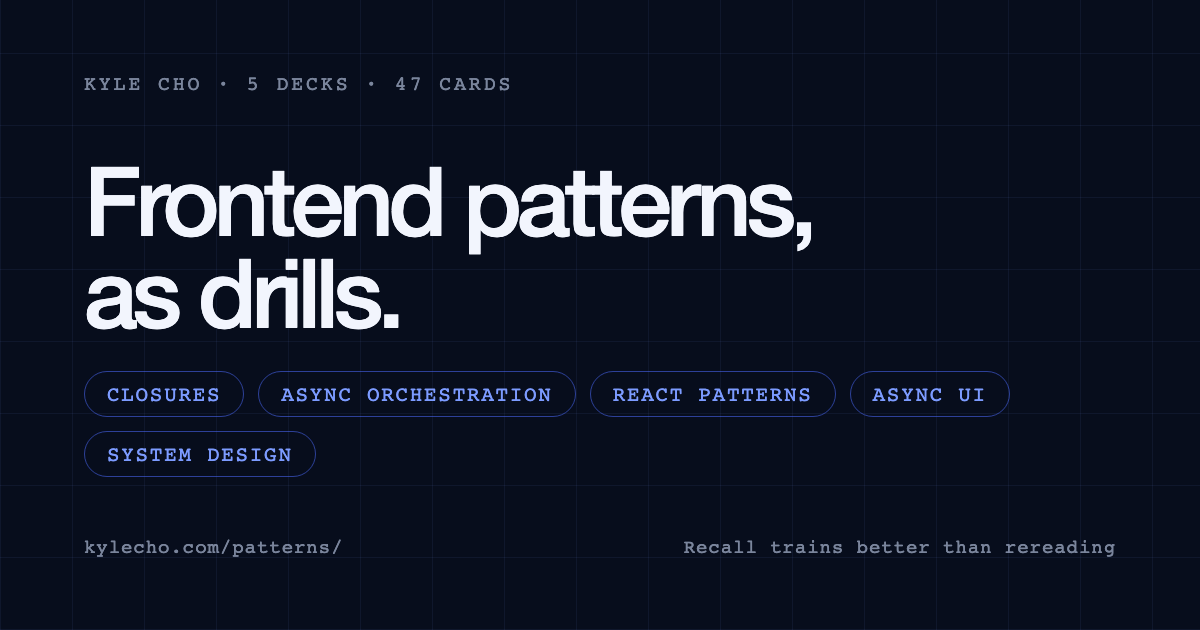
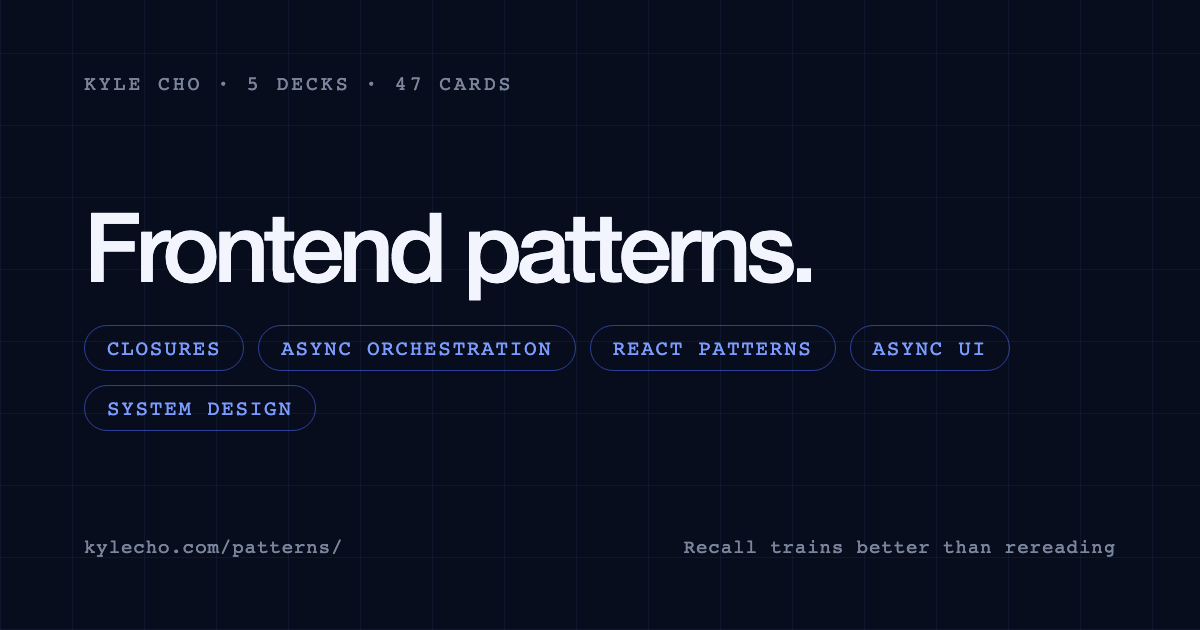
Shorten the patterns page title to "Frontend patterns."
Drops ", as drills" from the h1, og:title, twitter:title, and the
regenerated OG card; the intro line already explains the flashcard
format. Matches the site's headline voice of short declaratives.

Claude-Session: https://claude.ai/code/session_01BnjuXVSXetiEfoWKCTTCP6

Changed region(s): [[0.0617, 0.2413, 0.6783, 0.754], [0.4933, 0.5429, 0.6783, 0.6635], [0.7092, 0.5429, 0.8325, 0.6635]]

diff --git a/patterns/index.html b/patterns/index.html
@@ -11,14 +11,14 @@
   <link rel="canonical" href="https://kylecho.com/patterns/">
   <meta property="og:type" content="website">
   <meta property="og:site_name" content="Kyle Cho">
-  <meta property="og:title" content="Frontend patterns, as drills.">
+  <meta property="og:title" content="Frontend patterns.">
   <meta property="og:description" content="Five flashcard decks on closures, async orchestration, React patterns, async UI, and frontend system design. Recall trains better than rereading.">
   <meta property="og:url" content="https://kylecho.com/patterns/">
   <meta property="og:image" content="https://kylecho.com/assets/og-patterns.png">
   <meta property="og:image:width" content="1200">
   <meta property="og:image:height" content="630">
   <meta name="twitter:card" content="summary_large_image">
-  <meta name="twitter:title" content="Frontend patterns, as drills.">
+  <meta name="twitter:title" content="Frontend patterns.">
   <meta name="twitter:description" content="Five flashcard decks on closures, async orchestration, React patterns, async UI, and frontend system design.">
   <meta name="twitter:image" content="https://kylecho.com/assets/og-patterns.png">
 
@@ -68,7 +68,7 @@
       </button>
     </header>
 
-    <h1 data-split>Frontend patterns, as drills.</h1>
+    <h1 data-split>Frontend patterns.</h1>
 
     <p class="patterns-intro" data-reveal>
       Flashcard drills on closures, async orchestration, React

diff --git a/assets/og-patterns.html b/assets/og-patterns.html
@@ -63,7 +63,7 @@
 <body>
   <div class="kicker">Kyle Cho · 5 decks · 47 cards</div>
   <div>
-    <h1>Frontend patterns,<br>as drills.</h1>
+    <h1>Frontend patterns.</h1>
     <div class="decks">
       <span class="chip">Closures</span>
       <span class="chip">Async orchestration</span>